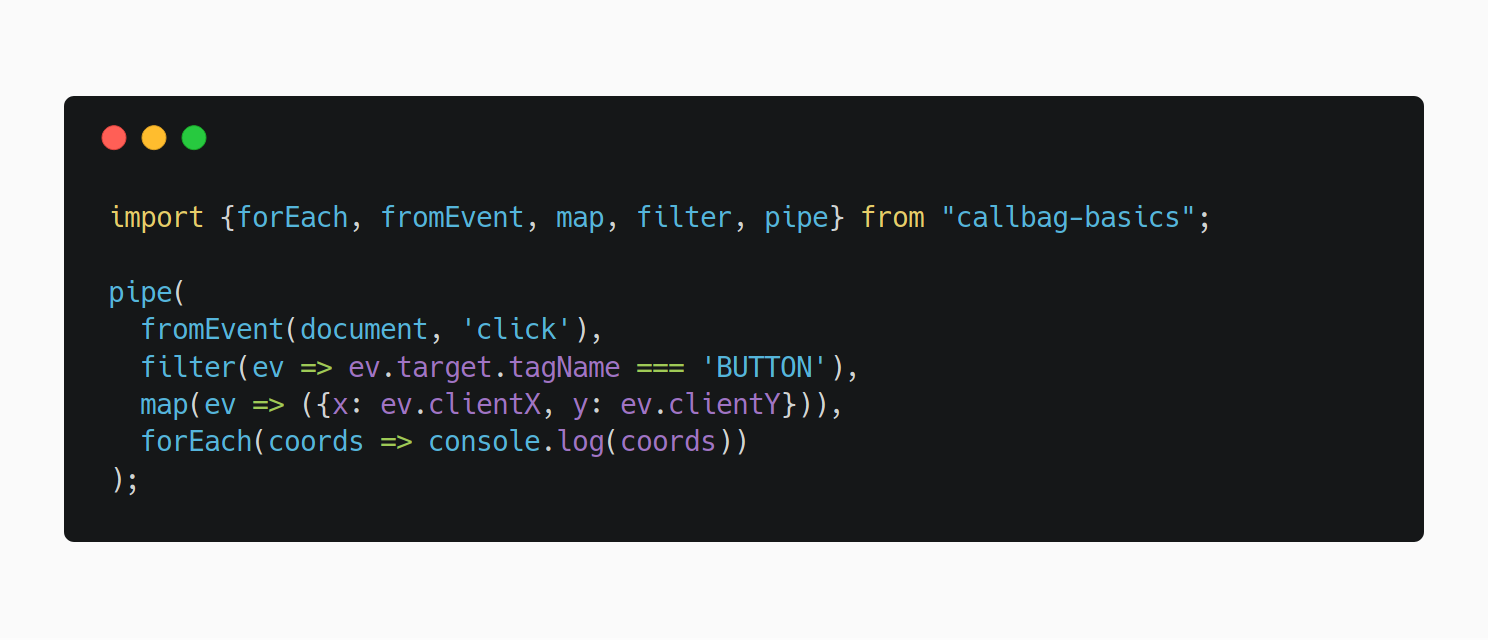
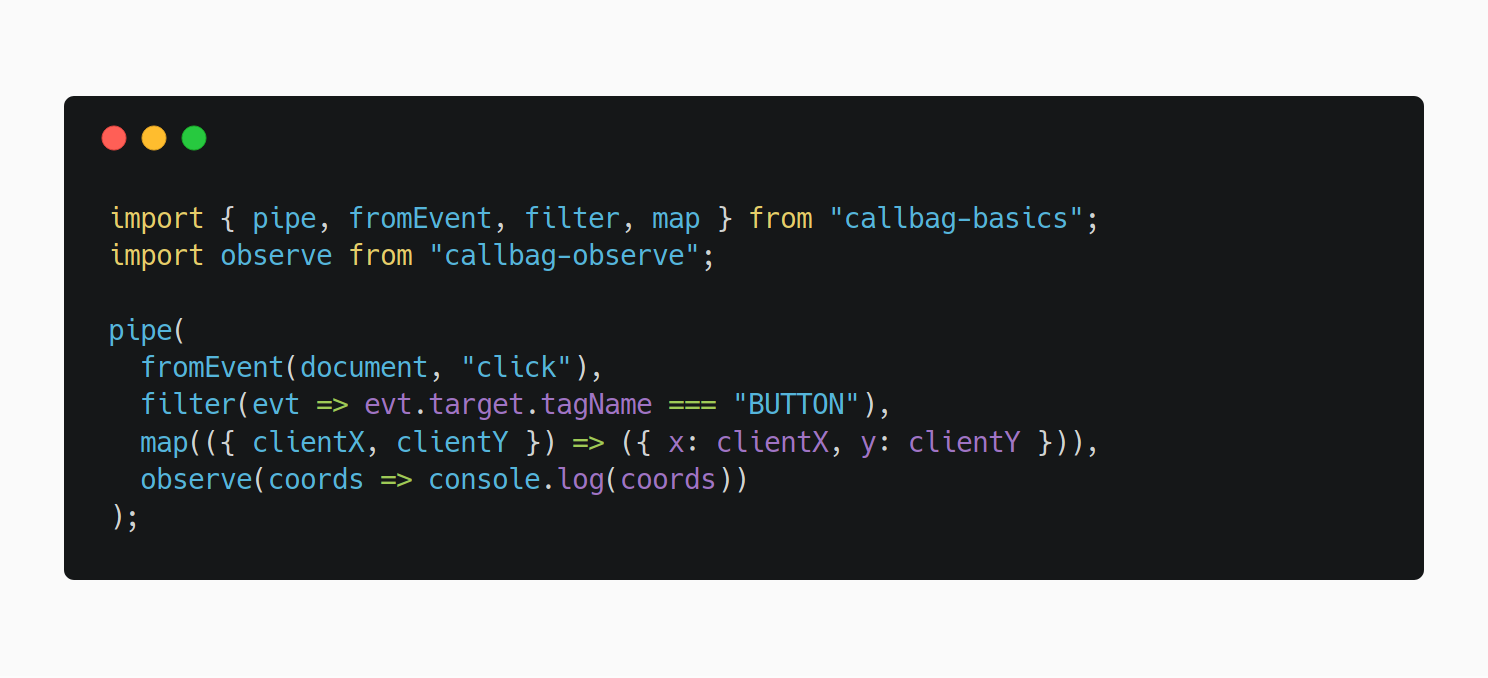
things

diff --git a/packages/slides/dist/index.js b/packages/slides/dist/index.js
@@ -340,18 +340,6 @@ eval("__webpack_require__.r(__webpack_exports__);\n/* harmony export (binding) *
 
 /***/ }),
 
-/***/ "./src/example/fun-with-msgs.js":
-/*!**************************************!*\
-  !*** ./src/example/fun-with-msgs.js ***!
-  \**************************************/
-/*! exports provided: funWithMsgs */
-/***/ (function(module, __webpack_exports__, __webpack_require__) {
-
-"use strict";
-eval("__webpack_require__.r(__webpack_exports__);\n/* harmony export (binding) */ __webpack_require__.d(__webpack_exports__, \"funWithMsgs\", function() { return funWithMsgs; });\n/* harmony import */ var _AnimatedMessage__WEBPACK_IMPORTED_MODULE_0__ = __webpack_require__(/*! ./AnimatedMessage */ \"./src/example/AnimatedMessage.js\");\n\n\nvar loseMessage = function loseMessage() {\n  return new _AnimatedMessage__WEBPACK_IMPORTED_MODULE_0__[\"AnimatedMessage\"]({\n    message: \"Looser!\",\n    className: \"lose-message\",\n    duration: 3000\n  });\n};\n\nvar hitMessage = function hitMessage(_ref) {\n  var x = _ref.x,\n      y = _ref.y;\n  return new _AnimatedMessage__WEBPACK_IMPORTED_MODULE_0__[\"AnimatedMessage\"]({\n    message: \"Hit!\",\n    className: \"hit-message\",\n    duration: 1000,\n    x: x,\n    y: y\n  });\n};\n\nfunction funWithMsgs(el) {\n  var score = el.querySelector(\".score\");\n  var lives = el.querySelector(\".lives\");\n  var moles = [].slice.call(el.querySelectorAll(\"a-mole\"));\n\n  el.querySelector(\".start\").addEventListener(\"click\", function () {\n    moles.forEach(function (mole) {\n      return mole.start();\n    });\n    score.value = 0;\n    lives.value = 3;\n  });\n\n  el.addEventListener(\"hit!\", function (_ref2) {\n    var detail = _ref2.detail;\n\n    score.value += 1;\n\n    el.appendChild(hitMessage(detail));\n  });\n\n  el.addEventListener(\"miss!\", function () {\n    lives.value -= 1;\n\n    if (!lives.value) {\n      moles.forEach(function (mole) {\n        return mole.stop();\n      });\n      el.appendChild(loseMessage());\n    }\n  });\n}\n\n//# sourceURL=webpack:///./src/example/fun-with-msgs.js?");
-
-/***/ }),
-
 /***/ "./src/example/hit-message.js":
 /*!************************************!*\
   !*** ./src/example/hit-message.js ***!
@@ -372,7 +360,7 @@ eval("__webpack_require__.r(__webpack_exports__);\n/* harmony export (binding) *
 /***/ (function(module, __webpack_exports__, __webpack_require__) {
 
 "use strict";
-eval("__webpack_require__.r(__webpack_exports__);\n/* harmony export (binding) */ __webpack_require__.d(__webpack_exports__, \"startExample1\", function() { return startExample1; });\n/* harmony export (binding) */ __webpack_require__.d(__webpack_exports__, \"startExample2\", function() { return startExample2; });\n/* harmony export (binding) */ __webpack_require__.d(__webpack_exports__, \"startExample3\", function() { return startExample3; });\n/* harmony export (binding) */ __webpack_require__.d(__webpack_exports__, \"startExample4\", function() { return startExample4; });\n/* harmony export (binding) */ __webpack_require__.d(__webpack_exports__, \"startExample4b\", function() { return startExample4b; });\n/* harmony export (binding) */ __webpack_require__.d(__webpack_exports__, \"startExample5\", function() { return startExample5; });\n/* harmony import */ var _BasicMole__WEBPACK_IMPORTED_MODULE_0__ = __webpack_require__(/*! ./BasicMole */ \"./src/example/BasicMole.js\");\n/* harmony import */ var _Mole__WEBPACK_IMPORTED_MODULE_1__ = __webpack_require__(/*! ./Mole */ \"./src/example/Mole.js\");\n/* harmony import */ var _ScoreBoard__WEBPACK_IMPORTED_MODULE_2__ = __webpack_require__(/*! ./ScoreBoard */ \"./src/example/ScoreBoard.js\");\n/* harmony import */ var _Lives__WEBPACK_IMPORTED_MODULE_3__ = __webpack_require__(/*! ./Lives */ \"./src/example/Lives.js\");\n/* harmony import */ var _simple_whack__WEBPACK_IMPORTED_MODULE_4__ = __webpack_require__(/*! ./simple-whack */ \"./src/example/simple-whack.js\");\n/* harmony import */ var _scored_whack__WEBPACK_IMPORTED_MODULE_5__ = __webpack_require__(/*! ./scored-whack */ \"./src/example/scored-whack.js\");\n/* harmony import */ var _callbag_simple_whack__WEBPACK_IMPORTED_MODULE_6__ = __webpack_require__(/*! ./callbag-simple-whack */ \"./src/example/callbag-simple-whack.js\");\n/* harmony import */ var _fun_with_msgs__WEBPACK_IMPORTED_MODULE_7__ = __webpack_require__(/*! ./fun-with-msgs */ \"./src/example/fun-with-msgs.js\");\n/* harmony import */ var _miss_message__WEBPACK_IMPORTED_MODULE_8__ = __webpack_require__(/*! ./miss-message */ \"./src/example/miss-message.js\");\n/* harmony import */ var _hit_message__WEBPACK_IMPORTED_MODULE_9__ = __webpack_require__(/*! ./hit-message */ \"./src/example/hit-message.js\");\n\n\n\n\n\n\n\n\n\n\n\nfunction startExample1(deck) {}\n\nfunction startExample2(deck) {\n  Object(_simple_whack__WEBPACK_IMPORTED_MODULE_4__[\"simpleWhack\"])(deck.querySelector(\".example2\"));\n}\n\nfunction startExample3(deck) {}\n\nfunction startExample4(deck) {\n  Object(_miss_message__WEBPACK_IMPORTED_MODULE_8__[\"missMessage\"])(deck.querySelector(\".example4\"));\n  deck.querySelector(\".example4 a-mole\").start();\n}\n\nfunction startExample4b(deck) {\n  Object(_hit_message__WEBPACK_IMPORTED_MODULE_9__[\"hitMessage\"])(deck.querySelector(\".example4b\"));\n  deck.querySelector(\".example4b a-mole\").start();\n}\n\nfunction startExample5(deck) {\n  Object(_callbag_simple_whack__WEBPACK_IMPORTED_MODULE_6__[\"callbagWhack\"])(deck.querySelector(\".example5\"));\n}\n\n//# sourceURL=webpack:///./src/example/index.js?");
+eval("__webpack_require__.r(__webpack_exports__);\n/* harmony export (binding) */ __webpack_require__.d(__webpack_exports__, \"startExample1\", function() { return startExample1; });\n/* harmony export (binding) */ __webpack_require__.d(__webpack_exports__, \"startExample2\", function() { return startExample2; });\n/* harmony export (binding) */ __webpack_require__.d(__webpack_exports__, \"startExample3\", function() { return startExample3; });\n/* harmony export (binding) */ __webpack_require__.d(__webpack_exports__, \"startExample4\", function() { return startExample4; });\n/* harmony export (binding) */ __webpack_require__.d(__webpack_exports__, \"startExample4b\", function() { return startExample4b; });\n/* harmony export (binding) */ __webpack_require__.d(__webpack_exports__, \"startExample5\", function() { return startExample5; });\n/* harmony import */ var _BasicMole__WEBPACK_IMPORTED_MODULE_0__ = __webpack_require__(/*! ./BasicMole */ \"./src/example/BasicMole.js\");\n/* harmony import */ var _Mole__WEBPACK_IMPORTED_MODULE_1__ = __webpack_require__(/*! ./Mole */ \"./src/example/Mole.js\");\n/* harmony import */ var _ScoreBoard__WEBPACK_IMPORTED_MODULE_2__ = __webpack_require__(/*! ./ScoreBoard */ \"./src/example/ScoreBoard.js\");\n/* harmony import */ var _Lives__WEBPACK_IMPORTED_MODULE_3__ = __webpack_require__(/*! ./Lives */ \"./src/example/Lives.js\");\n/* harmony import */ var _simple_whack__WEBPACK_IMPORTED_MODULE_4__ = __webpack_require__(/*! ./simple-whack */ \"./src/example/simple-whack.js\");\n/* harmony import */ var _scored_whack__WEBPACK_IMPORTED_MODULE_5__ = __webpack_require__(/*! ./scored-whack */ \"./src/example/scored-whack.js\");\n/* harmony import */ var _callbag_simple_whack__WEBPACK_IMPORTED_MODULE_6__ = __webpack_require__(/*! ./callbag-simple-whack */ \"./src/example/callbag-simple-whack.js\");\n/* harmony import */ var _miss_message__WEBPACK_IMPORTED_MODULE_7__ = __webpack_require__(/*! ./miss-message */ \"./src/example/miss-message.js\");\n/* harmony import */ var _hit_message__WEBPACK_IMPORTED_MODULE_8__ = __webpack_require__(/*! ./hit-message */ \"./src/example/hit-message.js\");\n\n\n\n\n\n\n\n\n\n\nfunction startExample1(deck) {}\n\nfunction startExample2(deck) {\n  Object(_simple_whack__WEBPACK_IMPORTED_MODULE_4__[\"simpleWhack\"])(deck.querySelector(\".example2\"));\n}\n\nfunction startExample3(deck) {}\n\nfunction startExample4(deck) {\n  Object(_miss_message__WEBPACK_IMPORTED_MODULE_7__[\"missMessage\"])(deck.querySelector(\".example4\"));\n  deck.querySelector(\".example4 a-mole\").start();\n}\n\nfunction startExample4b(deck) {\n  Object(_hit_message__WEBPACK_IMPORTED_MODULE_8__[\"hitMessage\"])(deck.querySelector(\".example4b\"));\n  deck.querySelector(\".example4b a-mole\").start();\n}\n\nfunction startExample5(deck) {\n  Object(_callbag_simple_whack__WEBPACK_IMPORTED_MODULE_6__[\"callbagWhack\"])(deck.querySelector(\".example5\"));\n}\n\n//# sourceURL=webpack:///./src/example/index.js?");
 
 /***/ }),
 
@@ -432,7 +420,7 @@ eval("__webpack_require__.r(__webpack_exports__);\n/* harmony import */ var my_c
 /***/ (function(module, __webpack_exports__, __webpack_require__) {
 
 "use strict";
-eval("__webpack_require__.r(__webpack_exports__);\n/* harmony export (binding) */ __webpack_require__.d(__webpack_exports__, \"presentation\", function() { return presentation; });\n/* harmony import */ var callbag_observe__WEBPACK_IMPORTED_MODULE_0__ = __webpack_require__(/*! callbag-observe */ \"../../node_modules/callbag-observe/index.js\");\n/* harmony import */ var callbag_observe__WEBPACK_IMPORTED_MODULE_0___default = /*#__PURE__*/__webpack_require__.n(callbag_observe__WEBPACK_IMPORTED_MODULE_0__);\n/* harmony import */ var callbag_basics_esmodules__WEBPACK_IMPORTED_MODULE_1__ = __webpack_require__(/*! callbag-basics-esmodules */ \"../../node_modules/callbag-basics-esmodules/dist/bundle.umd.js\");\n/* harmony import */ var callbag_basics_esmodules__WEBPACK_IMPORTED_MODULE_1___default = /*#__PURE__*/__webpack_require__.n(callbag_basics_esmodules__WEBPACK_IMPORTED_MODULE_1__);\n/* harmony import */ var _Deck__WEBPACK_IMPORTED_MODULE_2__ = __webpack_require__(/*! ./Deck */ \"./src/Deck.js\");\n/* harmony import */ var _Progress__WEBPACK_IMPORTED_MODULE_3__ = __webpack_require__(/*! ./Progress */ \"./src/Progress.js\");\n/* harmony import */ var _Slide__WEBPACK_IMPORTED_MODULE_4__ = __webpack_require__(/*! ./Slide */ \"./src/Slide.js\");\n\n\n\n\n\n\n\nvar fromArrowKeyDown = function fromArrowKeyDown(el) {\n  return Object(callbag_basics_esmodules__WEBPACK_IMPORTED_MODULE_1__[\"pipe\"])(Object(callbag_basics_esmodules__WEBPACK_IMPORTED_MODULE_1__[\"fromEvent\"])(el, \"keydown\"), Object(callbag_basics_esmodules__WEBPACK_IMPORTED_MODULE_1__[\"map\"])(function (evt) {\n    return evt.key || evt.keyCode || evt.which;\n  }), Object(callbag_basics_esmodules__WEBPACK_IMPORTED_MODULE_1__[\"map\"])(function (key) {\n    return typeof key === \"string\" ? key : key === 38 ? \"ArrowUp\" : key === 40 ? \"ArrowDown\" : key === 37 ? \"ArrowLeft\" : key === 39 ? \"ArrowRight\" : \"\";\n  }), Object(callbag_basics_esmodules__WEBPACK_IMPORTED_MODULE_1__[\"filter\"])(function (key) {\n    return key.indexOf(\"Arrow\") === 0;\n  }));\n};\n\nvar activeSlide = function activeSlide(deck) {\n  return deck.slides[deck.active];\n};\nvar inFragmentsRange = function inFragmentsRange(slide, modifier) {\n  return slide.fragments[slide.active + modifier];\n};\n\nvar presentation = function presentation(el) {\n  var deck = el.querySelector(\"x-deck\");\n  var progress = el.querySelector(\"x-progress\");\n  var initialSlide = location.hash.slice(1) || deck.active;\n\n  deck.active = Math.max(parseInt(initialSlide, 10), 0);\n\n  Object(callbag_basics_esmodules__WEBPACK_IMPORTED_MODULE_1__[\"pipe\"])(fromArrowKeyDown(document), Object(callbag_basics_esmodules__WEBPACK_IMPORTED_MODULE_1__[\"map\"])(function (key) {\n    return key === \"ArrowRight\" || key === \"ArrowUp\" ? 1 : -1;\n  }), callbag_observe__WEBPACK_IMPORTED_MODULE_0___default()(function (modifier) {\n    var slide = activeSlide(deck);\n    if (inFragmentsRange(slide, modifier)) {\n      slide.active += modifier;\n    } else {\n      deck.active += modifier;\n      progress.percentage = deck.active / (deck.length - 1);\n      location.hash = deck.active;\n    }\n  }));\n};\n\n//# sourceURL=webpack:///./src/presentation.js?");
+eval("__webpack_require__.r(__webpack_exports__);\n/* harmony export (binding) */ __webpack_require__.d(__webpack_exports__, \"presentation\", function() { return presentation; });\n/* harmony import */ var callbag_observe__WEBPACK_IMPORTED_MODULE_0__ = __webpack_require__(/*! callbag-observe */ \"../../node_modules/callbag-observe/index.js\");\n/* harmony import */ var callbag_observe__WEBPACK_IMPORTED_MODULE_0___default = /*#__PURE__*/__webpack_require__.n(callbag_observe__WEBPACK_IMPORTED_MODULE_0__);\n/* harmony import */ var callbag_basics_esmodules__WEBPACK_IMPORTED_MODULE_1__ = __webpack_require__(/*! callbag-basics-esmodules */ \"../../node_modules/callbag-basics-esmodules/dist/bundle.umd.js\");\n/* harmony import */ var callbag_basics_esmodules__WEBPACK_IMPORTED_MODULE_1___default = /*#__PURE__*/__webpack_require__.n(callbag_basics_esmodules__WEBPACK_IMPORTED_MODULE_1__);\n/* harmony import */ var _Deck__WEBPACK_IMPORTED_MODULE_2__ = __webpack_require__(/*! ./Deck */ \"./src/Deck.js\");\n/* harmony import */ var _Progress__WEBPACK_IMPORTED_MODULE_3__ = __webpack_require__(/*! ./Progress */ \"./src/Progress.js\");\n/* harmony import */ var _Slide__WEBPACK_IMPORTED_MODULE_4__ = __webpack_require__(/*! ./Slide */ \"./src/Slide.js\");\n\n\n\n\n\n\nvar fromArrowKeyDown = function fromArrowKeyDown(el) {\n  return Object(callbag_basics_esmodules__WEBPACK_IMPORTED_MODULE_1__[\"pipe\"])(Object(callbag_basics_esmodules__WEBPACK_IMPORTED_MODULE_1__[\"fromEvent\"])(el, \"keydown\"), Object(callbag_basics_esmodules__WEBPACK_IMPORTED_MODULE_1__[\"map\"])(function (evt) {\n    return evt.key;\n  }), Object(callbag_basics_esmodules__WEBPACK_IMPORTED_MODULE_1__[\"filter\"])(function (key) {\n    return key.indexOf(\"Arrow\") === 0;\n  }), Object(callbag_basics_esmodules__WEBPACK_IMPORTED_MODULE_1__[\"map\"])(function (key) {\n    return key === \"ArrowRight\" || key === \"ArrowUp\" ? 1 : -1;\n  }));\n};\n\nvar fromEnterKeyDown = function fromEnterKeyDown(el) {\n  return Object(callbag_basics_esmodules__WEBPACK_IMPORTED_MODULE_1__[\"pipe\"])(Object(callbag_basics_esmodules__WEBPACK_IMPORTED_MODULE_1__[\"fromEvent\"])(el, \"keydown\"), Object(callbag_basics_esmodules__WEBPACK_IMPORTED_MODULE_1__[\"map\"])(function (evt) {\n    return evt.key;\n  }), Object(callbag_basics_esmodules__WEBPACK_IMPORTED_MODULE_1__[\"filter\"])(function (key) {\n    return key === \"Enter\";\n  }), Object(callbag_basics_esmodules__WEBPACK_IMPORTED_MODULE_1__[\"map\"])(function () {\n    return 1;\n  }));\n};\n\nvar fromEscapeKeyDown = function fromEscapeKeyDown(el) {\n  return Object(callbag_basics_esmodules__WEBPACK_IMPORTED_MODULE_1__[\"pipe\"])(Object(callbag_basics_esmodules__WEBPACK_IMPORTED_MODULE_1__[\"fromEvent\"])(el, \"keydown\"), Object(callbag_basics_esmodules__WEBPACK_IMPORTED_MODULE_1__[\"map\"])(function (evt) {\n    return evt.key;\n  }), Object(callbag_basics_esmodules__WEBPACK_IMPORTED_MODULE_1__[\"filter\"])(function (key) {\n    return key === \"Escape\";\n  }), Object(callbag_basics_esmodules__WEBPACK_IMPORTED_MODULE_1__[\"map\"])(function () {\n    return -1;\n  }));\n};\n\nvar fromKeyboard = function fromKeyboard(el) {\n  return Object(callbag_basics_esmodules__WEBPACK_IMPORTED_MODULE_1__[\"merge\"])(fromArrowKeyDown(el), fromEnterKeyDown(el), fromEscapeKeyDown(el));\n};\n\nvar activeSlide = function activeSlide(deck) {\n  return deck.slides[deck.active];\n};\nvar inFragmentsRange = function inFragmentsRange(slide, modifier) {\n  return slide.fragments[slide.active + modifier];\n};\n\nvar presentation = function presentation(el) {\n  var deck = el.querySelector(\"x-deck\");\n  var progress = el.querySelector(\"x-progress\");\n  var initialSlide = location.hash.slice(1) || deck.active;\n\n  deck.active = Math.max(parseInt(initialSlide, 10), 0);\n\n  Object(callbag_basics_esmodules__WEBPACK_IMPORTED_MODULE_1__[\"pipe\"])(fromKeyboard(document), callbag_observe__WEBPACK_IMPORTED_MODULE_0___default()(function (modifier) {\n    var slide = activeSlide(deck);\n    if (inFragmentsRange(slide, modifier)) {\n      slide.active += modifier;\n    } else {\n      deck.active += modifier;\n      progress.percentage = deck.active / (deck.length - 1);\n      location.hash = deck.active;\n    }\n  }));\n};\n\n//# sourceURL=webpack:///./src/presentation.js?");
 
 /***/ })
 

diff --git a/packages/slides/index.html b/packages/slides/index.html
@@ -28,7 +28,7 @@
                 </ul>
             </x-slide>
             <x-slide>
-                <h2>Mainstream frameworks</h2>
+                <h2>Front-end frameworks (React, Angular, Vue)</h2>
                 <ul>
                     <li>Essential for develop complex web applications</li>
                     <li>If you need SSR for SEO, it can be very complex & costly</li>
@@ -176,6 +176,9 @@
                 <p class="fragment">Putting state in closures may duplicate the source of truths</p>
                 <p class="fragment">Let's try to use the DOM as state holder</p>
             </x-slide>
+            <x-slide>
+                <img src="images/code-examples/score-board.png" class="full">
+            </x-slide>
             <x-slide class="opacity">
                 <img src="images/code-examples/scored-whack.png" class="full">
             </x-slide>
@@ -186,14 +189,11 @@
                 <img src="images/code-examples/scored-whack-2.png" class="full">
             </x-slide>
             <x-slide>
-                <img src="images/code-examples/score-board.png" class="full">
-            </x-slide>
-            <x-slide>
                 <h2>What about performance?</h2>
             </x-slide>
             <x-slide>
                 <h2>Measure, then optimize</h2>
-                <p class="fragment">It's better to optimize tha small number of cases than everything</p>
+                <p class="fragment">It's better to optimize a small number of cases than everything</p>
             </x-slide>
             <x-slide>
                 <h2>State transitions</h2>
@@ -225,6 +225,9 @@
             <x-slide class="example4b">
                 <a-mole></a-mole>
                 <img src="images/code-examples/hit-message.png">
+            </x-slide>
+            <x-slide>
+                <img src="images/code-examples/no-callbags-example.png" class="full">
             </x-slide>
             <x-slide class="example5">
                 <button class="start">Start</button>

diff --git a/packages/slides/src/presentation.js b/packages/slides/src/presentation.js
@@ -1,5 +1,4 @@
 import observe from "callbag-observe";
-
 import {
   pipe,
   map,
@@ -16,23 +15,32 @@ import "./Slide";
 let fromArrowKeyDown = el =>
   pipe(
     fromEvent(el, "keydown"),
-    map(evt => evt.key || evt.keyCode || evt.which),
-    map(
-      key =>
-        typeof key === "string"
-          ? key
-          : key === 38
-            ? "ArrowUp"
-            : key === 40
-              ? "ArrowDown"
-              : key === 37
-                ? "ArrowLeft"
-                : key === 39
-                  ? "ArrowRight"
-                  : ""
-    ),
-    filter(key => key.indexOf("Arrow") === 0)
+    map(evt => evt.key),
+    filter(key => key.indexOf("Arrow") === 0),
+    map(key => (key === "ArrowRight" || key === "ArrowUp" ? 1 : -1))
   );
+
+let fromEnterKeyDown = el =>
+  pipe(
+    fromEvent(el, "keydown"),
+    map(evt => evt.key),
+    filter(key => key === "Enter"),
+    map(() => 1)
+  );
+
+let fromEscapeKeyDown = el =>
+  pipe(
+    fromEvent(el, "keydown"),
+    map(evt => evt.key),
+    filter(key => key === "Escape"),
+    map(() => -1)
+  );
+
+let fromKeyboard = el => merge(
+  fromArrowKeyDown(el),
+  fromEnterKeyDown(el),
+  fromEscapeKeyDown(el)
+)
 
 let activeSlide = deck => deck.slides[deck.active];
 let inFragmentsRange = (slide, modifier) =>
@@ -46,8 +54,7 @@ export let presentation = el => {
   deck.active = Math.max(parseInt(initialSlide, 10), 0);
 
   pipe(
-    fromArrowKeyDown(document),
-    map(key => (key === "ArrowRight" || key === "ArrowUp" ? 1 : -1)),
+    fromKeyboard(document),
     observe(modifier => {
       let slide = activeSlide(deck);
       if (inFragmentsRange(slide, modifier)) {

diff --git a/packages/slides/src/example/index.js b/packages/slides/src/example/index.js
@@ -5,7 +5,6 @@ import "./Lives";
 import { simpleWhack } from "./simple-whack";
 import { scoredWhack } from "./scored-whack";
 import { callbagWhack } from "./callbag-simple-whack";
-import { funWithMsgs } from "./fun-with-msgs";
 import { missMessage } from "./miss-message";
 import { hitMessage } from "./hit-message";
 

diff --git a/packages/slides/src/example/callbag-basix-example.js b/packages/slides/src/example/callbag-basix-example.js
@@ -1,0 +1,9 @@
+import { pipe, fromEvent, filter, map } from "callbag-basics";
+import observe from "callbag-observe";
+
+pipe(
+  fromEvent(document, "click"),
+  filter(evt => evt.target.tagName === "BUTTON"),
+  map(({ clientX, clientY }) => ({ x: clientX, y: clientY })),
+  observe(coords => console.log(coords))
+);
